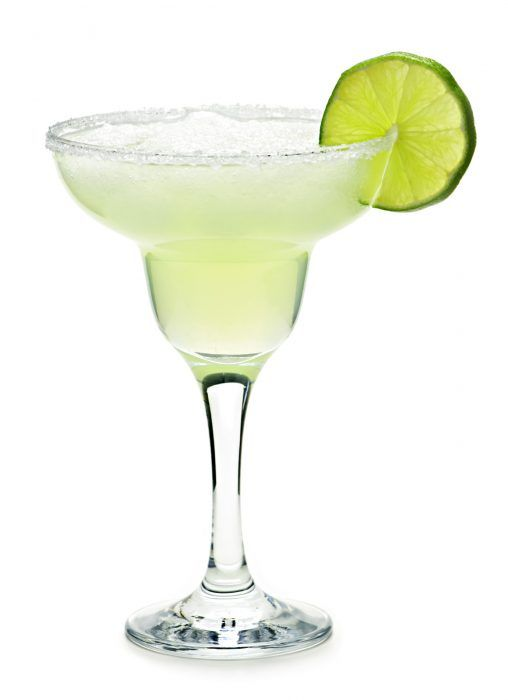
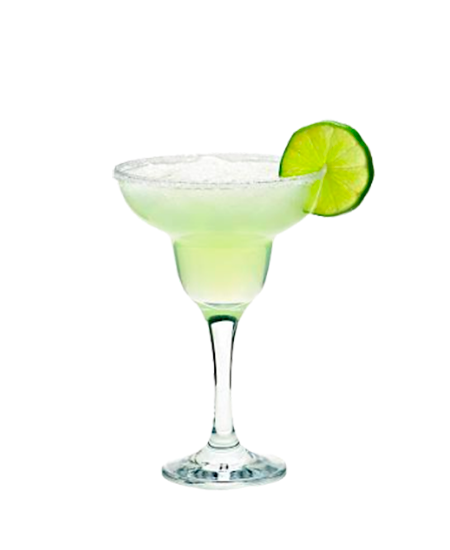
se cambian imagenes productos

Changed region(s): [[0.0933, 0.0618, 0.9644, 0.9582]]

diff --git a/js/objBotellas.js b/js/objBotellas.js
@@ -6,7 +6,7 @@ if(botellasLs.length === 0){
         id: 1,
         name: 'Johnnie Walker Blue Label',
         licor: 'Whisky',
-        img: '/IMAGENES/D_NQ_NP_2X_691874-MLC47573671184_092021-F.webp',
+        img: '/IMAGENES/bluelabel.png',
         price: '221.962',
         descrp: 'Un elisir para el paladar',
     },
@@ -14,7 +14,7 @@ if(botellasLs.length === 0){
         id: 2,
         name: 'The Macallan 18 Double Cask Single Malt Whisky Estuche 700ml',
         licor: 'Whisky',
-        img: '/IMAGENES/D_NQ_NP_2X_670290-MLA52467831363_112022-F.webp',
+        img: '/IMAGENES/macallan18.png',
         price: '505.000',
         descrp: 'El Macallan Double Cask 18 años, un whisky de pura malta perfectamente equilibrado, madurado durante 18 años en barricas de roble sazonadas con jerez americano y europeo. El roble americano sazonado con jerez agrega una delicada vainilla a las sutiles especias del roble europeo, brindando un whisky con un sabor y carácter más dulce y cálido.',
     },
@@ -22,7 +22,7 @@ if(botellasLs.length === 0){
         id: 3,
         name: 'Vino Eco Blanco 1 Lt Termidor Vinos En Tetra Brick',
         licor: 'Vino',
-        img: '/IMAGENES/D_NQ_NP_2X_974599-MLA69872535885_062023-F.webp',
+        img: '/IMAGENES/termidorblanco.png',
         price: '1.738',
         descrp: 'Un vino de mesa producido por el Grupo Peñaflor, quienes tienen unas bodegas destacadas a nivel internacional. Desde hace tiempo, el vino tinto Termidor se hace presente en la mesa de las familias argentinas, pero también es uno de los vinos más consumidos en todo el mundo',
     },
@@ -30,7 +30,7 @@ if(botellasLs.length === 0){
         id: 4,
         name: 'Tequila Don Julio Blanco 750ml',
         licor: 'Tequila',
-        img: '/IMAGENES/D_NQ_NP_2X_905237-MLU70638594960_072023-F.webp',
+        img: '/IMAGENES/donjulioblanco.png',
         price: '68.000',
         descrp: 'Todo el tequila Don Julio proviene de plantas 100% puras de agave Blue Weber. Cada gota que vive dentro de cada botella de tequila Don Julio nace en Los Altos de Jalisco, donde el microclima y el suelo de arcilla roja rica en minerales permiten que florezca la planta de agave azul.',
     },
@@ -38,7 +38,7 @@ if(botellasLs.length === 0){
         id: 5,
         name: 'Tequila Jose Cuervo Especial gold dorado 750ml',
         licor: 'Tequila',
-        img: '/IMAGENES/D_NQ_NP_2X_750780-MLA50528575524_062022-F.webp',
+        img: '/IMAGENES/josecuervodorado.png',
         price: '15.233',
         descrp: 'Un aroma a madera, nueces y avellanas; posee un sabor suave y dulce, de color ámbar, elaborado con el mejor agave azul recogido a mano, cocido lentamente, prensado y destilado, no es un proceso rápido sin embargo le otorga esa característica única',
     },
@@ -46,7 +46,7 @@ if(botellasLs.length === 0){
         id: 6,
         name: 'Vino Cordero Con Piel De Lobo Mb 750ml De Mosquita Muerta',
         licor: 'Vino',
-        img: '/IMAGENES/vino-malbec-mosquita-muerta-cordero-con-piel-de-lobo-750-ml.jpg',
+        img: '/IMAGENES/corderoconpieldelobo.png',
         price: '1.789',
         descrp: 'Un Malbec joven muy bien elaborado, diferente por su aroma y sabor a frutos maduros. Con una acidez justa deja en boca un picor agradable con un final reforzado por su paso por madera.',
     },
@@ -54,7 +54,7 @@ if(botellasLs.length === 0){
         id: 7,
         name: 'Vino Angelica Zapata Malbec Alta 750cc',
         licor: 'Vino',
-        img: '/IMAGENES/D_NQ_NP_2X_680691-MLA40568816454_012020-F.webp',
+        img: '/IMAGENES/angelicazapata.png',
         price: '14.386',
         descrp: 'Presentado en una elegante botella, este vino es perfecto para compartir en ocasiones especiales o simplemente para disfrutar de una buena cena en casa. Su origen argentino y la cuidada selección de uvas de la región de Mendoza garantizan un sabor auténtico y una calidad excepcional.',
     },
@@ -62,7 +62,7 @@ if(botellasLs.length === 0){
         id: 8,
         name: 'Whiskey Jameson Irlandés 700ml',
         licor: 'Whiskey',
-        img: '/IMAGENES/D_NQ_NP_2X_687477-MLA51087858265_082022-F.webp',
+        img: '/IMAGENES/jameson.png',
         price: '9.889',
         descrp: 'Color dorado cálido. Aroma Suave y fragante, con notas de madera tostada y jerez. Su sabor es excepcionalmente suave, dulce y complejo. Delicada fusión de sabores tales como vainilla, madera de roble, miel, complementados por especias, caramelo y nuez.',
     },
@@ -70,7 +70,7 @@ if(botellasLs.length === 0){
         id: 9,
         name: 'Vino Andeluna Malbec Rose Edicion Limitada 750ml',
         licor: 'Vino',
-        img: '/IMAGENES/D_NQ_NP_2X_779684-MLA44580814642_012021-F.webp',
+        img: '/IMAGENES/vinorosado.jpg',
         price: '2.979',
         descrp: 'Honramos con pasión el suelo, la altura, Los Andes y la Luna. La altura precisa, el aire de la cordillera, el sol, el trabajo de nuestra gente dan a estos vinos elegancia, balance, amabilidad. Este vino representa la magia de su entorno, la expresión de su lugar.',
     },
@@ -78,7 +78,7 @@ if(botellasLs.length === 0){
         id: 10,
         name: 'Tequila blanco silver Jose Cuervo Especial 750ml',
         licor: 'Tequila',
-        img: '/IMAGENES/D_NQ_NP_2X_728072-MLA45658116404_042021-F.webp',
+        img: '/IMAGENES/josecuervoblanco.png',
         price: '15.750',
         descrp: 'Jose Cuervo Silver se dio a conocer a través de la muy famosa y mexicana bebida “Margarita”. Jose Cuervo es un tequila premium color blanco, perfecto para mezclar y preparar diferentes bebidas. Conocido en el mundo como Cuervo Gold, Jose Cuervo Especial se obtiene al ser reposado en barricas dobles logrando obtener un extraordinario suave y dulce sabor, con aroma a madera, nueces y avellanas.',
     },

diff --git a/js/objTragos.js b/js/objTragos.js
@@ -17,7 +17,7 @@ const tragosObj = [
     {
         id: 2,
         name: 'Negroni',
-        img: '/IMAGENES/Negroni-e1414258652370.jpg',
+        img: '/IMAGENES/negroni-img.png',
         ingred:{
             ingred1: '3 cl de Ginebra',
             ingred2: '3 cl de Campari',
@@ -28,7 +28,7 @@ const tragosObj = [
     {
         id: 3,
         name: 'Pisco Sour',
-        img: '/IMAGENES/Pisco-Sour.png',
+        img: '/IMAGENES/pisco-sour (1).png',
         ingred:{
             ingred1: '4,5 cl de Pisco',
             ingred2: '3 cl de Zumo de limón',
@@ -50,7 +50,7 @@ const tragosObj = [
     {
         id: 5,
         name: 'Caipirinha',
-        img: '/IMAGENES/Caipirinha.jpg',
+        img: '/IMAGENES/caiprihna-cocktail-salou-cocteleria.webp',
         ingred:{
             ingred1: '5 cl de Cachaça',
             ingred2: '1/2 de Lima cortada en cuartos',
@@ -83,7 +83,7 @@ const tragosObj = [
     {
         id: 8,
         name: 'Piña Colada',
-        img: '/IMAGENES/Piña-Colada.jpg',
+        img: '/IMAGENES/Piña-Colada.png',
         ingred:{
             ingred1: '3 cl de Ron blanco',
             ingred2: '3 cl de Leche de coco',

diff --git a/html/ADMIN/tragosAdmin.html b/html/ADMIN/tragosAdmin.html
@@ -132,7 +132,7 @@
       <div class="row ">
 
         <div>
-          <table class="table-responsive">
+          <table class="table-responsive w-100">
             <thead>
               <tr class="fs-5">
                 <th scope="col">ID</th>
